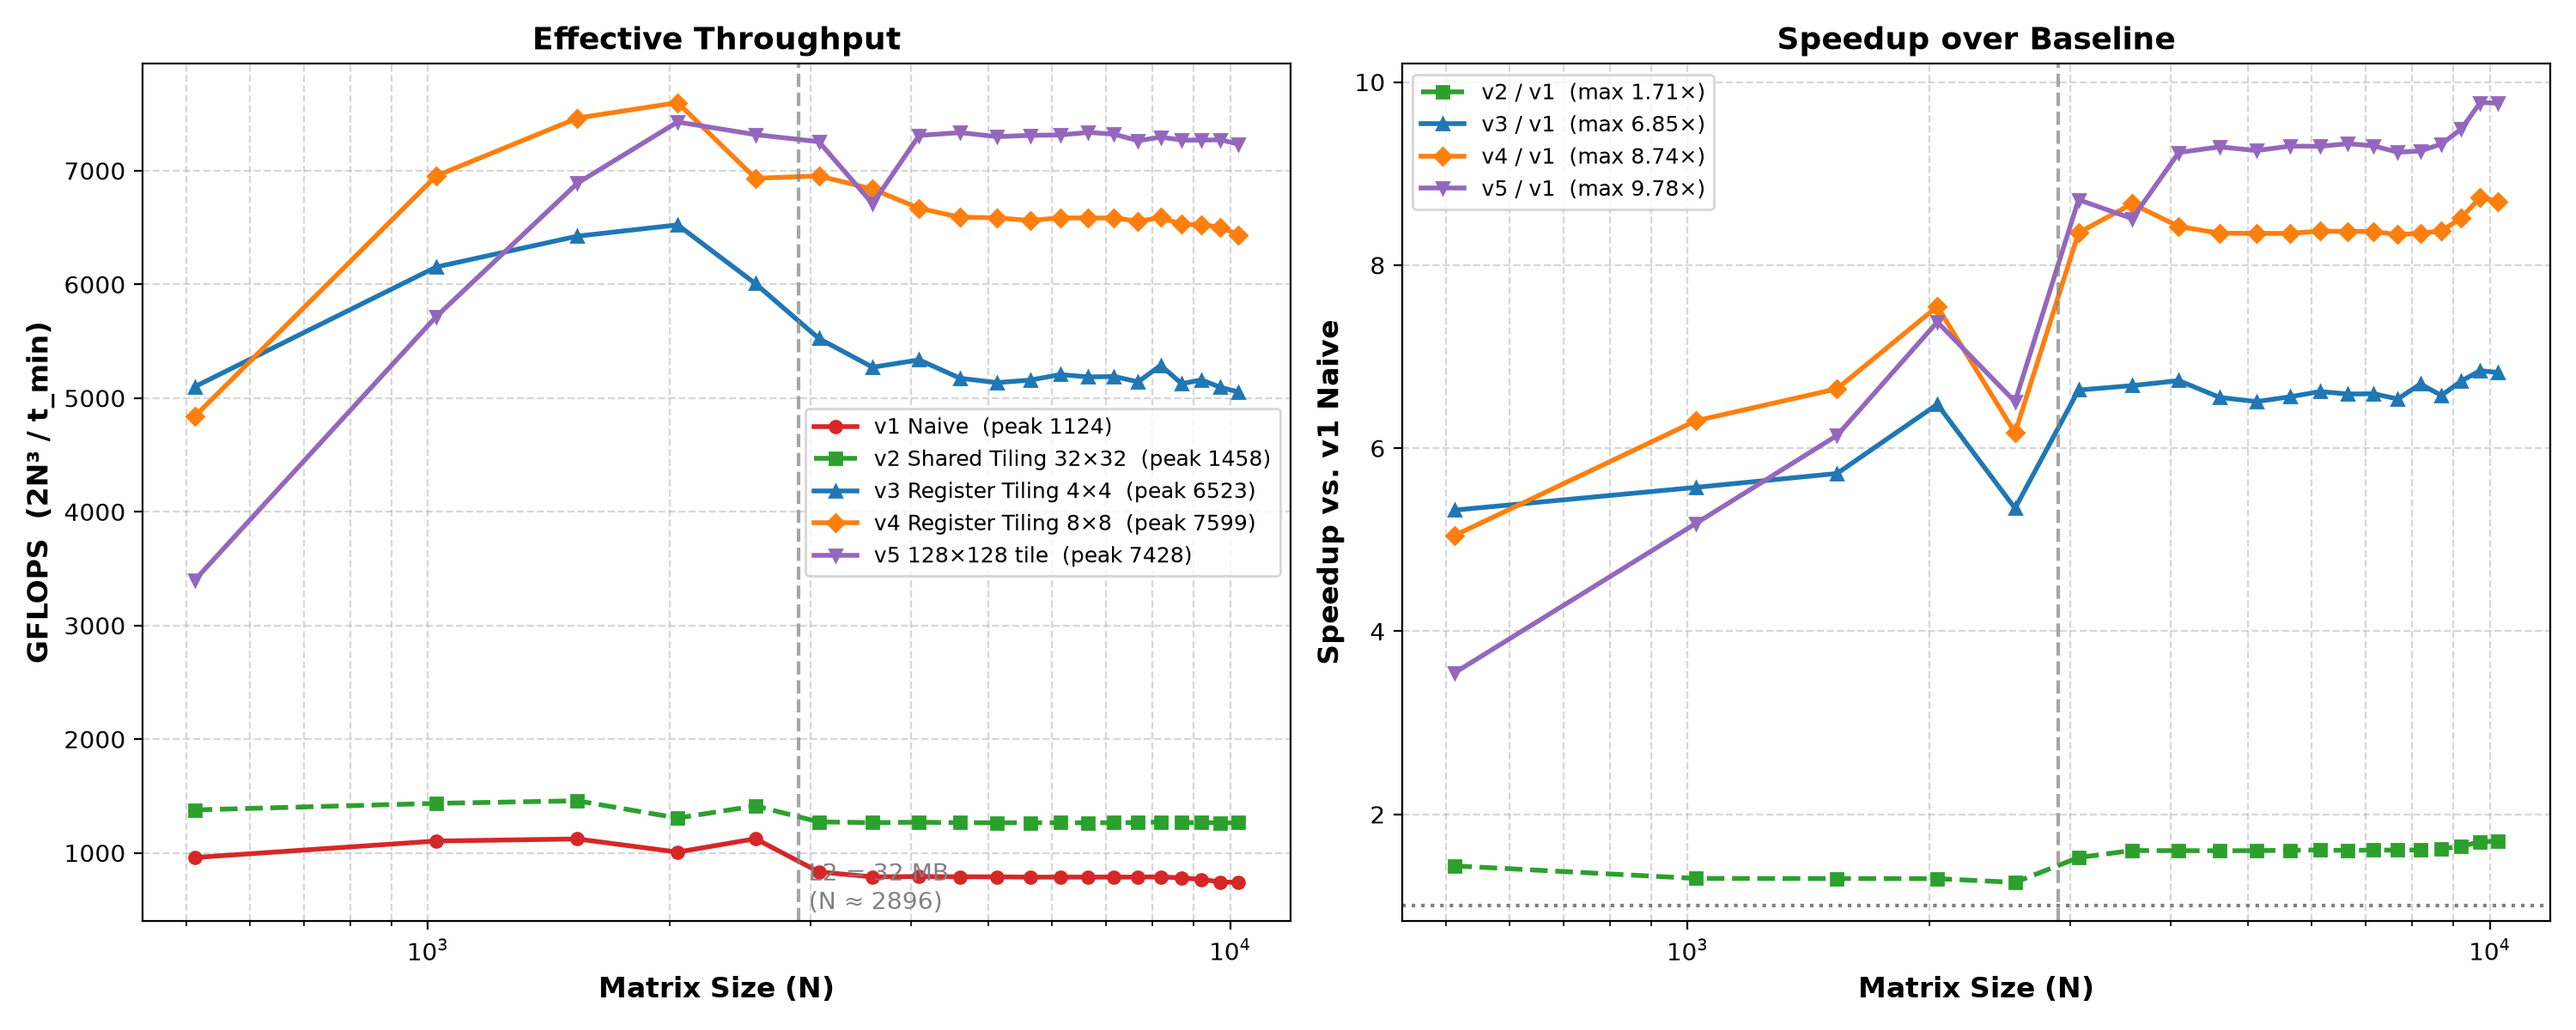
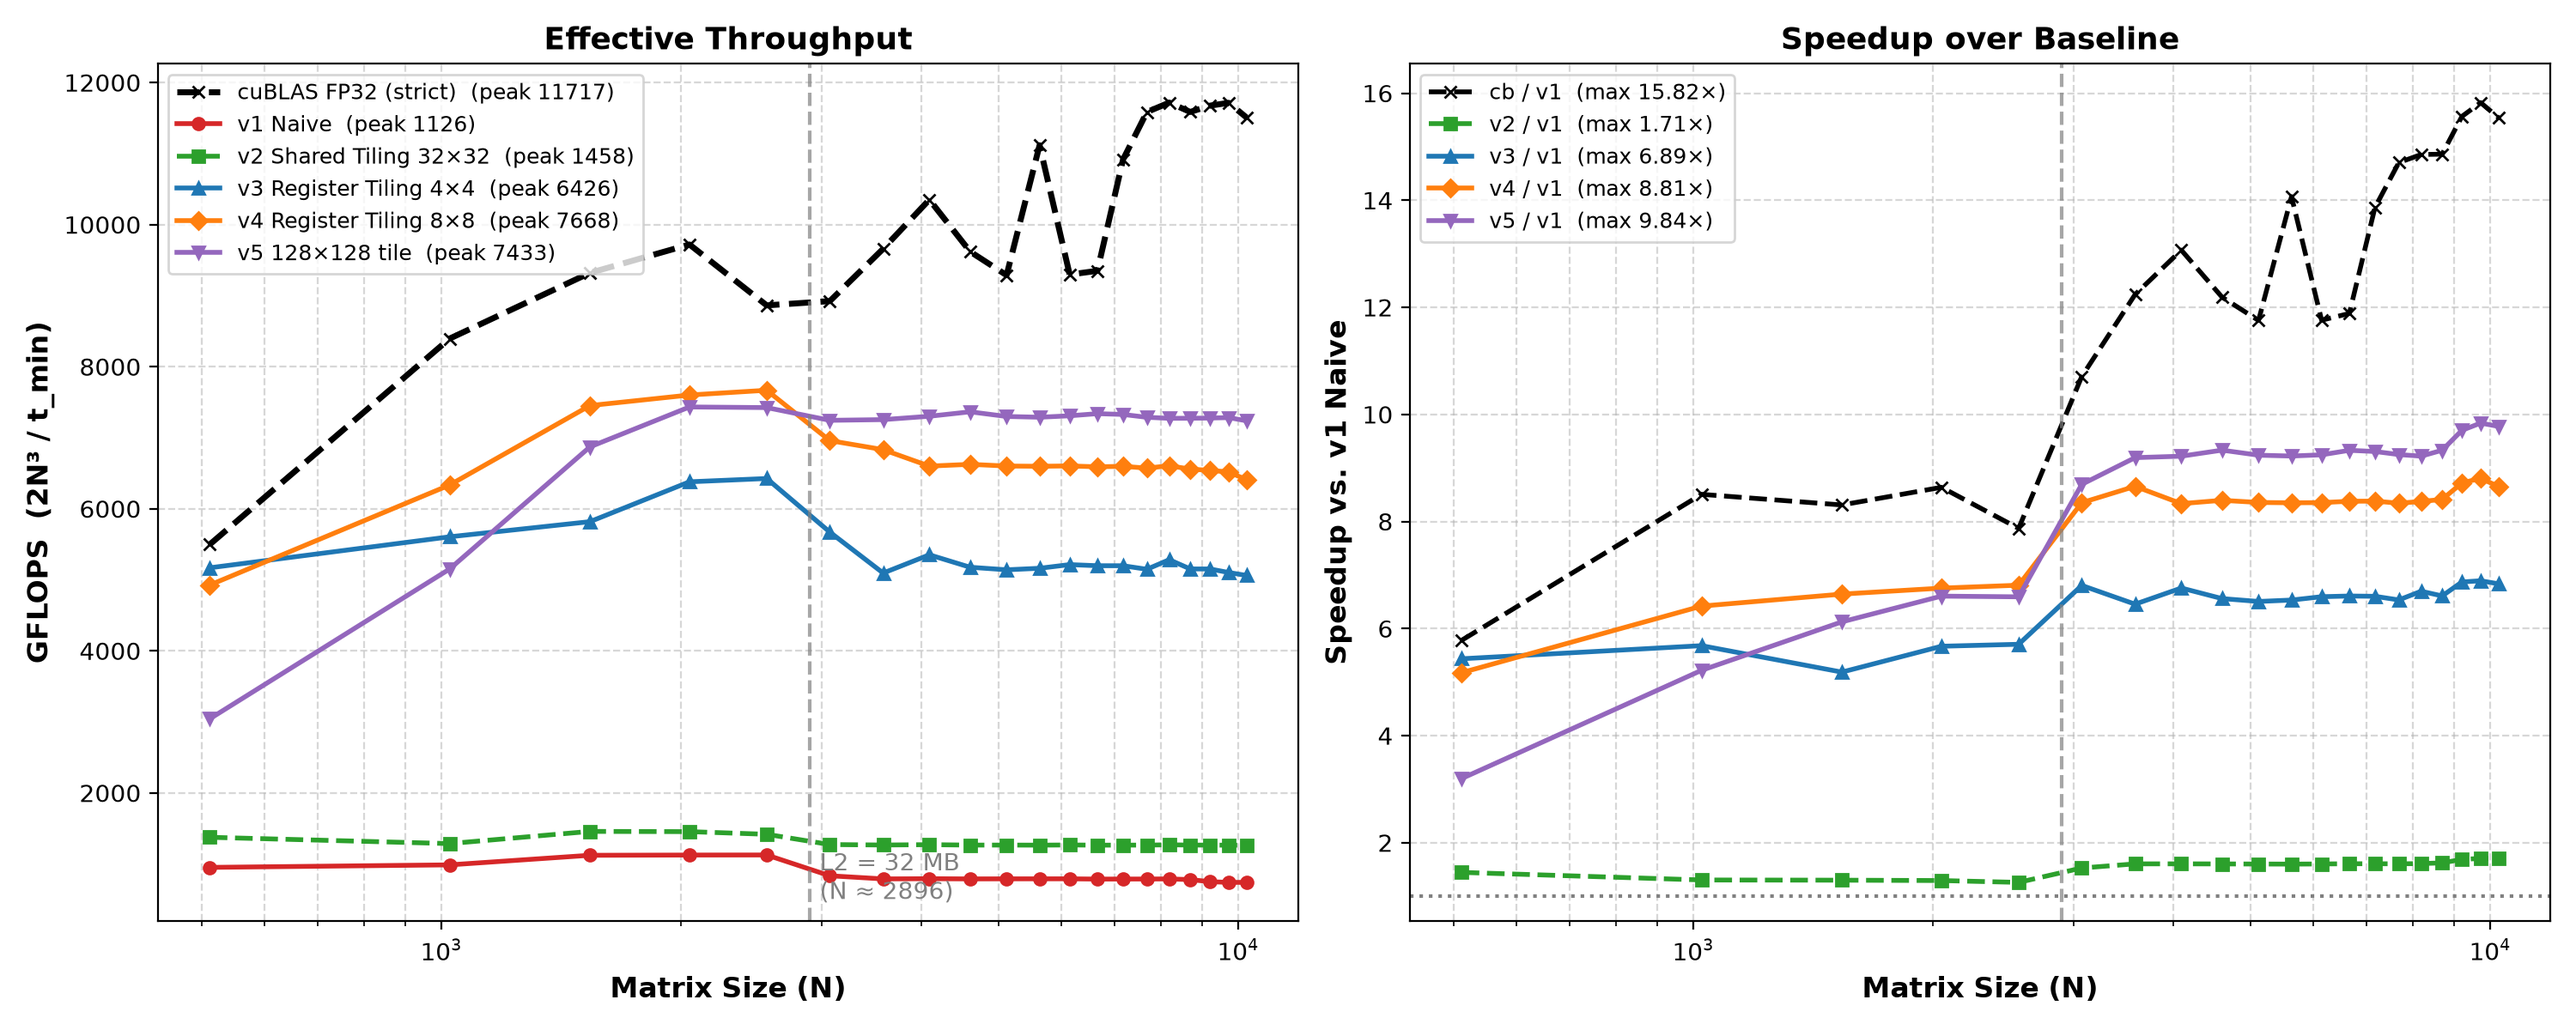
feat: 加入 cuBLAS 严格 FP32 基线；README 补与 cuBLAS 的对比

diff --git a/plot_scalability.py b/plot_scalability.py
@@ -1,5 +1,5 @@
 #!/usr/bin/env python3
-"""SGEMM 可扩展性图：v1 naive / v2 tiling / v3 4×4 / v4 8×8 / v5 128×128 tile"""
+"""SGEMM 可扩展性图：v1~v5 + cuBLAS 基线"""
 import os
 import pandas as pd
 import matplotlib.pyplot as plt
@@ -17,24 +17,28 @@ df = (load('results/v1_naive.csv', 'v1')
       .merge(load('results/v2_tiling.csv', 'v2'), on='N')
       .merge(load('results/v3_regtile.csv', 'v3'), on='N')
       .merge(load('results/v4_regtile_8x8.csv', 'v4'), on='N')
-      .merge(load('results/v5_regtile_128tile.csv', 'v5'), on='N'))
+      .merge(load('results/v5_regtile_128tile.csv', 'v5'), on='N')
+      .merge(load('results/cublas_sgemm.csv', 'cb'), on='N'))
 
-for tag in ('v2', 'v3', 'v4', 'v5'):
+for tag in ('v2', 'v3', 'v4', 'v5', 'cb'):
     df[f'sp_{tag}'] = df.ms_v1 / df[f'ms_{tag}']
 
 fig, (ax1, ax2) = plt.subplots(1, 2, figsize=(15, 6), dpi=200)
 
-# ---- 左：吞吐 ----
 series = [
-    ('v1', 'v1 Naive',                       '#d62728', 'o', '-'),
-    ('v2', 'v2 Shared Tiling 32×32',         '#2ca02c', 's', '--'),
-    ('v3', 'v3 Register Tiling 4×4',         '#1f77b4', '^', '-'),
-    ('v4', 'v4 Register Tiling 8×8',         '#ff7f0e', 'D', '-'),
-    ('v5', 'v5 128×128 tile',                '#9467bd', 'v', '-'),
+    ('cb', 'cuBLAS FP32 (strict)',      '#000000', 'x', '--'),
+    ('v1', 'v1 Naive',                  '#d62728', 'o', '-'),
+    ('v2', 'v2 Shared Tiling 32×32',    '#2ca02c', 's', '--'),
+    ('v3', 'v3 Register Tiling 4×4',    '#1f77b4', '^', '-'),
+    ('v4', 'v4 Register Tiling 8×8',    '#ff7f0e', 'D', '-'),
+    ('v5', 'v5 128×128 tile',           '#9467bd', 'v', '-'),
 ]
+
+# ---- 左：吞吐 ----
 for tag, label, color, marker, ls in series:
     peak = df[f'gf_{tag}'].max()
-    ax1.plot(df.N, df[f'gf_{tag}'], marker=marker, ls=ls, color=color, lw=2, ms=5,
+    ax1.plot(df.N, df[f'gf_{tag}'], marker=marker, ls=ls, color=color,
+             lw=2 if tag != 'cb' else 2.5, ms=5,
              label=f'{label}  (peak {peak:.0f})')
 
 ax1.axvline(N_L2, color='gray', ls='--', alpha=.7)
@@ -47,8 +51,11 @@ ax1.set_title('Effective Throughput', fontsize=13, fontweight='bold')
 ax1.grid(True, which='both', ls='--', alpha=.5)
 ax1.legend(fontsize=9)
 
+
 # ---- 右：加速比 ----
-for tag, label, color, marker, ls in series[1:]:
+for tag, label, color, marker, ls in series:
+    if tag == 'v1':
+        continue
     ax2.plot(df.N, df[f'sp_{tag}'], marker=marker, ls=ls, color=color, lw=2, ms=5,
              label=f'{tag} / v1  (max {df[f"sp_{tag}"].max():.2f}×)')
 
